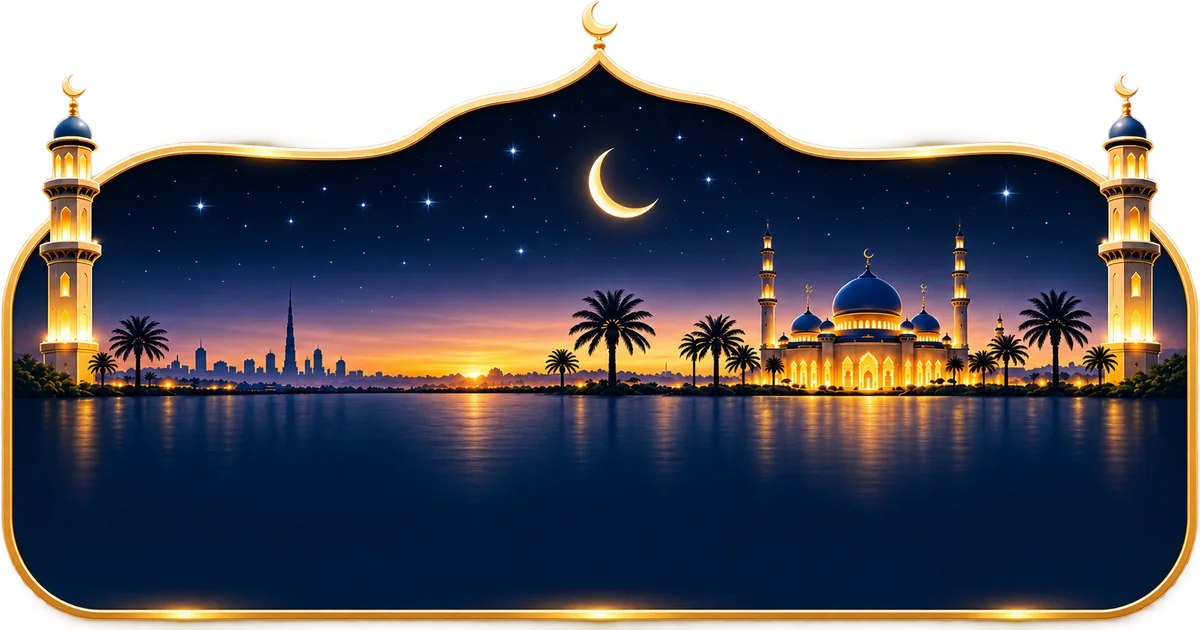
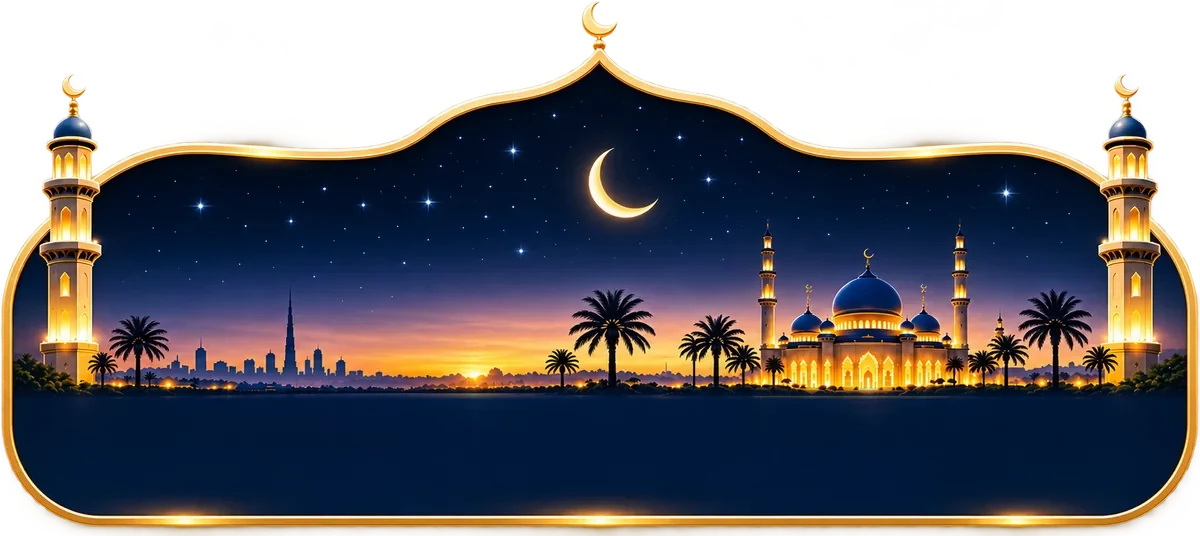
Home: shorter prayer card, firmer light and dark tiles (#99)
- Prayer card about 12% shorter: 94 rows of open water removed from the
  three frame pictures (now 1200x536, seam cross-faded), the prayer times
  start at the waterline with no gap under the header, slightly tighter
  time chips. Arch, minarets, skyline, gold frame and countdown unchanged.
- Prayer-card test updated for the new picture height and waterline.
- Light and dark tiles: 7% more opaque, same border and corners, a finer
  subtle shadow.
- Service worker v160.

diff --git a/sw.js b/sw.js
@@ -1,4 +1,4 @@
-const CACHE_NAME = "zad-muslim-v159"; // v159: home — glass cards in every theme (light: white glass / sky-blue accent, purple: indigo glass / violet, sepia: cream glass / gold, black: faint white glass / emerald), no blur and no wash so the background stays as it is, shorter cards (58 px list, 80 px 4-per-row, 40 / 36 px icons), matching glass nav bar per theme; v158: v158: home, sepia — glass cards: a pale wash over the bokeh, frosted cream glass cards with a bright edge and soft shadow, gold gradient accents (section bars, layout switch, upcoming-prayer pill), matching glass nav bar, solid surfaces when reduced transparency is requested; v157: v157: home — floating pill bottom navigation (rounded bar with a soft shadow, a tinted pill that slides to the tab whose panel is open, muted inactive tabs, theme colours for light / purple / sepia / black, RTL and LTR), nav icons in one 24 px box with optical balance (translate scaled down, bars scaled up); the 18 card icons re-cut from the source sheet and optically balanced (outline size and painted mass), shown at 44 px; new sepia background (golden bokeh, images/background-sepia.*); v156: v156: home — the feature cards show the 3D icons on their own (no tile box; icons/home/*.webp, one set for every theme); the accent follows the theme: sky blue (light), violet (dark), gold-bronze (sepia), emerald (plain-dark) for the section bars, layout switch and upcoming-prayer pill; the full Tajawal family (regular + bold) instead of the bold-only face, a type scale (17 / 14 / 11 px) and one grid rhythm (cards 64 px / 92 px high, 10 px gaps, 20 px between sections); v155: home — the feature cards use 3D picture tiles (icons/home/<theme>/*.webp: sky blue for light, purple for dark, caramel for sepia, emerald for plain-dark) in place of the outline SVGs, all tiles the same size, swapped with the theme; v154: audio and radio — the layout button only on big screens (foldables, tablets, car head units, computers), not on regular phones; v153: audio and radio — a header button switches between the wide and the vertical layout (it turns the screen where the app may, or switches in place when the screen is wide enough, e.g. an unfolded foldable held upright; remembered in playerLayout, set before the first paint); the seek bar paints played / buffered on its track (the taller landscape slider showed a grey block); audio wide layout: the seek bar runs along the bottom of the player, under both columns; v152: audio and radio on wide landscape screens (car head units 800×480 to 1920×720, tablets, phones sideways) — one screen with no scrolling: the player card in two columns with a line between (the title and big controls on the reading side, the art beside them, the reciter under it), the pickers in one row, repeat / download / favourite / shuffle / speed as one segmented bar, the title wrapping instead of scrolling, lists as a centred panel; refined: balanced columns, larger art, a stronger title (the reciter / category secondary), the transport and the lighter secondary bar set apart, alike pickers (an icon tile, label and value, a chevron), radio's live indicator above the station name; the shuffle icon redrawn as 🔀 (two arrows swapping lanes) on the audio pages; v151: home — the prayer times card is a framed picture (gold frame with an arch, minarets and a lake scene: night, day, golden hour; images/prayer-frame-{dark,light,sepia}.webp) in place of the SVG arch and outline (images/prayer-scene*.webp removed); drawn in three bands so it never distorts, the times on the water; v149: home — the saved theme and reading direction are set in <head> before the first paint (the page showed the dark default, right-to-left, until the load event and then switched), the prayer card's arch drawn right after its markup (it showed as a plain rectangle until the scripts at the end of the page had loaded); the same early theme and direction on azkar, radio, audio, audio-download, audio2, audio3, about, howto and privacy (each with its own rule; they showed their default theme until the load event); v148: radio — live Holy Quran Radio from Cairo (radiojar) first in the station list; the old «القاهرة» entry was Mustafa Ismail's stream: now «إذاعة مصطفى إسماعيل» at #5 (the duplicate further down removed); radiojar streams bypass the SW; adhkar — the «1 من 31» badge opens a list of the whole set to jump to any dhikr (done ✓, part-way n/N, repeats ×N; the current one highlighted); the translate button moved from the adhkar header into Settings (first row), the Settings ✕ at the far edge; adhkar auto-fit — a button on the card (and a switch in Settings) sizes the text so the whole dhikr fits the card (short ones up to 40 px, long ones down to 16), refits when the card changes size; sizing by hand turns it off; smallest size 22 → 16 px; v147: adhkar — the top bar sits below the status bar / notch (safe-area inset instead of a fixed 30 px on iOS), the page keeps clear of the bottom buttons whatever their real height (gesture bar / home indicator, mini player): the counter ring no longer runs under «تلقائي», A-/A+ have their own strip at the top of the card (the text no longer scrolls under them), English shows Previous on the left and Next on the right; v146: masbaha — «الأكثر استخدامًا» (سبحان الله، الحمد لله، لا إله إلا الله) at the top of the picker, add your own dhikr from the picker, the bookmark beside «تغيير الذكر» (it covered the text), a meaning with its source for every dhikr, ﷺ drawn with Amiri where Tajawal lacks it; v145: masbaha — ring fills clockwise as a thick arc with a knob (no bead dots); the dhikr in a gold cartouche (drawn to size) with previous / next arrows, swipe and a favourites bookmark (favourites first in the picker); frosted patterned disc in the ring; the lake-and-mosques scene in every theme (images/masbaha-scene-{light,dark,sepia}.webp: dusk, night, golden); tasbih mark and ornament on the title; leaf icon for power saving; the virtue title as a tab on the card; v144: masbaha redesign — the dhikr shown in full above the counter (tap to change), a 33-bead misbaha ring with the imam bead and rounds, the whole counter area counts a tap, labelled actions (undo, target, reset, power saving), a target sheet (3 / 7 / 10 / 33 / 99 / 100 / 1000 or any number), the virtue with its source on its own line, keyboard counting and screen-reader announcements, settings regrouped (statistics most-said first, folded); undo also corrects the weekly stats (DhikrStats.untap); v143: masbaha — power-saving mode: the exit ring appears under the finger only on a held press (grows, turns red), a held or exiting press no longer counts; the virtue card sits higher above the bottom edge; top bar and toast kept 14 px below the notch / status bar; v142: masbaha — light, dark and sepia themes (follows the app theme, selector in settings), dhikr picker as a searchable grouped sheet like the other menus, 8 more adhkar with their virtue and source, settings restyled like the other pages; v141: audio — saved mark is a floppy disk, shown on saved surahs too (was «محفوظ» text there); v140: audio — a saved recitation opens from «المصاحف المحفوظة» at its surah list, saved reciters listed first with a small download-done mark; v139: home — shorter prayer times card (201 → 165 px: lower arch, mosque gap and chip padding trimmed); v138: app icon — navy version: gold arch, lantern and open Quran under a blue sky with a mosque (all icon sizes, maskable on solid navy, full-bleed apple-touch-icon); v136: new light app icon — gold arch, lantern and open Quran on a sky background (icons/icon-192.png, icon_512.png, icon_1024.png, icon-512-maskable.png, new icons/apple-touch-icon.png: full-bleed for iOS); v135: home — continue-reading card redesigned on an arch, lantern and Quran picture per theme (night blue, sky, honey; images/quran-hero-{dark,light,sepia}[-ltr].webp), no arrow button (the whole card opens the mushaf), the home page no longer pinch-zooms on touch screens; v134: home — greeting header removed (prayer card at the top), shorter Quran card, one light sweep shared by both cards, clearer sepia bottom bar, Quran-and-lantern picture on the continue-reading card (images/quran-hero-*.webp); v133: home — prayer times card redesigned as an arched night scene with a mosque (images/prayer-scene*.webp: night for dark themes, day for light, golden hour for sepia); v132: full-mushaf download — card on the player under the selectors, short surahs first, a progress bar per surah, overall progress by size; v131: audio — «تحميل المصحف كاملاً»: a whole recitation saved for offline listening (js/audio-offline.js, cache quran-audio-offline-v1, never trimmed); v130: adhkar — no page pinch-zoom on touch screens again (pinching the dhikr card still resizes its text); v129: audio seek bar back to its thin 5 px look; v128: accessibility — 44 px tap areas on the mushaf, text mushaf, takrar, audio and adhkar controls (no visual change), tappable divs reachable by keyboard and screen readers (js/tap-a11y.js), visible keyboard focus (css/a11y.css), names for unnamed buttons, pinch zoom re-enabled on adhkar; v127: Quran text integrity — the text mushaf is laid out from the app's own verified text and page map (js/quran-text-source.js, data/quran-pages.json): fetched text is shown only when its letters match ayah by ayah, and the page reads with no connection; search/tafsir show remote text as text; tafsir opens offline; data/quran.json checksum-gated in CI; v126: offline — sql.js bundled (js/vendor/, the mushaf no longer needs a CDN), played/bundled audio really cached and served with byte ranges (seeking + iOS offline), precache in parallel batches, tafsir books + bundled audio in «download all», every page registers the SW and shows an offline notice (js/net-status.js), pages cached once regardless of ?query; v125: audio — «المصحف الجديد» (Minshawi) served per surah from mp3quran (GitHub release tracks often timed out) and listed after the murattal; new reciter محمد عبادة; reciter photos as album art (images/reciters/, also on the lock screen and the island, default art as fallback); 217 tracks that silently played another reciter (mp3quran redirects missing files to Minshawi) and 10 cut-off files hidden via `missing`; v124: ثبات — ورد القرآن journeys (daily pages, opens the mushaf at the page, khatma progress, 4-week calendar, make-up for a missed day), sprouts as growth (7 stages, milestone track with the plant of each milestone), «تجاوزت هذه اللحظة» after the ten minutes, new high-quality covers (images/thabat/covers: 1200px banners + 256px thumbnails, new artwork first); surah names shown in the UI font without the Uthmani sukun «ۡ» or the wasla (Tajawal has no glyph for either: they showed as boxes) in ثبات and the mushaf recitation messages; v123: ثبات — long journey names no longer widen the page (the whole page slid sideways on phones), counters in Western digits (Tajawal draws «٠» as a diamond), banner text readable in every theme, new journeys count hours/minutes, hours shown when a milestone is under two days away, library shows 4 then «عرض الكل»; v122: «ثبات» — private journeys of repentance and steadfastness (pages/thabat.html, js/thabat.js, js/thabat-content.js, images/thabat/), card on the home page; v121: azkar — «فضل الذكر» under each dhikr instead of takhreej/grading, taller card + smaller ring, A-/A+ zoom buttons, counts kept for the day with per-dhikr reset and "reset all", prev/next disabled at the ends; v120: azkar grading label shows the strongest ruling (حسن/صحيح), weak fadail ones «يؤخذ بالضعيف في الفضائل»; continuous player survives a host reload (refresh re-shows the framed page, back walks the visited pages instead of sticking on the player); book pages (Nawawi, Qudsi, Hisn, Duaa) menus, player and labels follow the app language (hb_* keys); v119: hadith encyclopedia — 75 corrupted characters repaired in the six books, empty entries hidden, Prophet's words / chain styled, Nawawi & Qudsi open their own pages; v118: بستان الدعاء rebuilt from «الدعاء من الكتاب والسنة» on the book design (assets/duaa-book.json, author's takhreej); honorific ligatures spelled out in hisn/azkar notes; v117: azkar — source, takhreej and grading for every dhikr (azkar.json, salah.json, sleeping-zikr.json) shown under the text; v116: حصن المسلم on the new book design (pages/hisn.html + assets/hisn-matn.json: author's takhreej for all 267, repeat counters, official per-chapter/per-dhikr audio); v115: الأربعون القدسية page (pages/qudsi.html, reviewed text + grading); Nawawi page split into shared css/hadith-book.css + js/hadith-book.js; v114: Nawawi filter chips and share-card audio toggle use SVG icons (no emoji-range characters); v113: Nawawi audio player — compact card, collapsible to a pill; v112: share-card videos can carry a recitation track (Nawawi hadith audio), text timed to it; v111: hadith encyclopedia — corrected An-Nawawi Forty text and takhreej (assets/hadith/nawawi40.json); v110: Nawawi page — corrected takhreej + wording (assets/hadith/nawawi40-matn.json), Prophet's words highlighted, per-hadith recitation player (repeat, auto-next, speed); v109: dedicated An-Nawawi Forty page (pages/nawawi.html: memorization mode, favourites, image/text sharing), prayer cards drop the "next" badge, share card back press no longer closes the modal underneath; v108: home prayer cards (five prayers, upcoming highlighted), sepia secondary text readable; v107: form controls inherit the app font (css/fonts.css), azkar page zoom off again; v106: notifications — 30-day push schedule (Play/TWA has no periodic sync), Play-app guidance when notifications are blocked; v105: audit fixes — Asr (Hanafi/standard) setting, pinch-zoom re-enabled on all pages, quran-text search escaping + API text rendered as text; v104: weekly dhikr stats card (js/dhikr-stats.js: dated history of masbaha/azkar/Quran counters, shared via ShareCard); v103: hadith image cards + silent video export for all share cards (hadith, hisn, duaa, azkar); v102: duaa/dhikr image cards (js/share-card.js) on hisn, duaa and azkar; v101: qibla corrects magnetic→true north (js/wmm.js, WMM2025) and reads the top edge, not the camera, in the 2D compass; v100: all pages load Tajawal + Amiri from bundled fonts via css/fonts.css (no Google Fonts); v99: azkar.html loads Amiri from the bundled fonts/Amiri.ttf (was Google-Fonts-only, fell back to a system font); v98: video maker self-heals a stale cached script (multi-picture switch did nothing with old video-maker.js); v97: video maker multi-picture slideshow (pan/zoom per picture, crossfades on ayah changes); v96: new dark-theme background (images/Background-dark.webp, now used by index.html too); v95: audio island drag-to-dismiss (drop on the bottom ✕ to stop and hide the floating player); v94: video maker "✦ Popular" quick-pick sheet (js/popular-ayat.js); v93: video maker exports a regular fast-start MP4 (MediaRecorder fragmented MP4 showed ~3 s in galleries/WhatsApp); v92: video maker redesign (numbered step cards, searchable surah/reciter sheets, steppers, switches, full-screen preview, Scheherazade canvas font, share caption); v91: ayah video maker (pages/video-maker.html — canvas + MediaRecorder status clips); v90: offline download runs in the page via CacheStorage (fixes wrapped PWA/TWA where the SW message path failed), keeps sw.js as single source for assets + cache name; v89: radio station selector card restored below the player (no pill), page padding trimmed so it still fits without scrolling; v88: radio player fits one screen (art scales with height, stations pill), tap art to pause motion, station title no longer overwritten by late i18n; v87: Sharjah radio via audio-only AAC (itworkscdn) with HLS fallbacks, per-station stream candidates, itworkscdn streams bypass the SW; v86: radio.html UX overhaul (categories, auto-reconnect with host fallback, prev/next, sleep timer, continuous host) + 10 wrong station streams fixed; live radio streams bypass the SW; v85: continuous audio — pages open in a frame over audio.html with a floating island player (js/continuous-player.js), setting in audio.html + index.html; v84: audio.html UX (no silent skip on load/offline, inline error + retry, buffering ring, rich searchable lists, lock-screen seek) + 40 dead audio links fixed/removed in audio-01.json; v83: hadith-viewer RTL swipe (finger → right = next chapter, like duaa/hisn), hadith search ignores invisible RLM marks, viewer shows full result count + "show more", hadith.html scrolls results into view; v82: qibla tilt-compensated heading (back-camera bearing when upright), ignore relative-only orientation, calibration "done" no longer exits the page (BackClose.swap); v81: takrar unit labels strip the basmala + quote the opening, readable selected rows; v80: takrar settings sheet, first-open preferences, ayah-opening unit labels, language button; v79: takrar redesign (player dock, 46 reciters, infinite range loop) + new i18n keys; v78: let GitHub release audio bypass the SW (range requests via SW broke seeking); v77: Minshawi new murattal tracks moved to GitHub release + clean track names; v76: harden offline modal — reply timeouts + graceful recovery when an old SW still controls after update; v75: drop ?v= cache-buster from audio pages, strip dead CSS; v74: unified offline-download.js controller; v73: precache quran-v2 + audio/radio JSONs, hadith books on-demand, ZAD_CACHE_ALL handler
+const CACHE_NAME = "zad-muslim-v160"; // v160: home — prayer card ~12 % shorter (94 rows of open water taken out of images/prayer-frame-*.webp, now 1200 × 536; the times start at the waterline, tighter chips, no gap under the header), light and dark tiles 7 % more opaque with a finer shadow; v159: v159: home — glass cards in every theme (light: white glass / sky-blue accent, purple: indigo glass / violet, sepia: cream glass / gold, black: faint white glass / emerald), no blur and no wash so the background stays as it is, shorter cards (58 px list, 80 px 4-per-row, 40 / 36 px icons), matching glass nav bar per theme; v158: v158: home, sepia — glass cards: a pale wash over the bokeh, frosted cream glass cards with a bright edge and soft shadow, gold gradient accents (section bars, layout switch, upcoming-prayer pill), matching glass nav bar, solid surfaces when reduced transparency is requested; v157: v157: home — floating pill bottom navigation (rounded bar with a soft shadow, a tinted pill that slides to the tab whose panel is open, muted inactive tabs, theme colours for light / purple / sepia / black, RTL and LTR), nav icons in one 24 px box with optical balance (translate scaled down, bars scaled up); the 18 card icons re-cut from the source sheet and optically balanced (outline size and painted mass), shown at 44 px; new sepia background (golden bokeh, images/background-sepia.*); v156: v156: home — the feature cards show the 3D icons on their own (no tile box; icons/home/*.webp, one set for every theme); the accent follows the theme: sky blue (light), violet (dark), gold-bronze (sepia), emerald (plain-dark) for the section bars, layout switch and upcoming-prayer pill; the full Tajawal family (regular + bold) instead of the bold-only face, a type scale (17 / 14 / 11 px) and one grid rhythm (cards 64 px / 92 px high, 10 px gaps, 20 px between sections); v155: home — the feature cards use 3D picture tiles (icons/home/<theme>/*.webp: sky blue for light, purple for dark, caramel for sepia, emerald for plain-dark) in place of the outline SVGs, all tiles the same size, swapped with the theme; v154: audio and radio — the layout button only on big screens (foldables, tablets, car head units, computers), not on regular phones; v153: audio and radio — a header button switches between the wide and the vertical layout (it turns the screen where the app may, or switches in place when the screen is wide enough, e.g. an unfolded foldable held upright; remembered in playerLayout, set before the first paint); the seek bar paints played / buffered on its track (the taller landscape slider showed a grey block); audio wide layout: the seek bar runs along the bottom of the player, under both columns; v152: audio and radio on wide landscape screens (car head units 800×480 to 1920×720, tablets, phones sideways) — one screen with no scrolling: the player card in two columns with a line between (the title and big controls on the reading side, the art beside them, the reciter under it), the pickers in one row, repeat / download / favourite / shuffle / speed as one segmented bar, the title wrapping instead of scrolling, lists as a centred panel; refined: balanced columns, larger art, a stronger title (the reciter / category secondary), the transport and the lighter secondary bar set apart, alike pickers (an icon tile, label and value, a chevron), radio's live indicator above the station name; the shuffle icon redrawn as 🔀 (two arrows swapping lanes) on the audio pages; v151: home — the prayer times card is a framed picture (gold frame with an arch, minarets and a lake scene: night, day, golden hour; images/prayer-frame-{dark,light,sepia}.webp) in place of the SVG arch and outline (images/prayer-scene*.webp removed); drawn in three bands so it never distorts, the times on the water; v149: home — the saved theme and reading direction are set in <head> before the first paint (the page showed the dark default, right-to-left, until the load event and then switched), the prayer card's arch drawn right after its markup (it showed as a plain rectangle until the scripts at the end of the page had loaded); the same early theme and direction on azkar, radio, audio, audio-download, audio2, audio3, about, howto and privacy (each with its own rule; they showed their default theme until the load event); v148: radio — live Holy Quran Radio from Cairo (radiojar) first in the station list; the old «القاهرة» entry was Mustafa Ismail's stream: now «إذاعة مصطفى إسماعيل» at #5 (the duplicate further down removed); radiojar streams bypass the SW; adhkar — the «1 من 31» badge opens a list of the whole set to jump to any dhikr (done ✓, part-way n/N, repeats ×N; the current one highlighted); the translate button moved from the adhkar header into Settings (first row), the Settings ✕ at the far edge; adhkar auto-fit — a button on the card (and a switch in Settings) sizes the text so the whole dhikr fits the card (short ones up to 40 px, long ones down to 16), refits when the card changes size; sizing by hand turns it off; smallest size 22 → 16 px; v147: adhkar — the top bar sits below the status bar / notch (safe-area inset instead of a fixed 30 px on iOS), the page keeps clear of the bottom buttons whatever their real height (gesture bar / home indicator, mini player): the counter ring no longer runs under «تلقائي», A-/A+ have their own strip at the top of the card (the text no longer scrolls under them), English shows Previous on the left and Next on the right; v146: masbaha — «الأكثر استخدامًا» (سبحان الله، الحمد لله، لا إله إلا الله) at the top of the picker, add your own dhikr from the picker, the bookmark beside «تغيير الذكر» (it covered the text), a meaning with its source for every dhikr, ﷺ drawn with Amiri where Tajawal lacks it; v145: masbaha — ring fills clockwise as a thick arc with a knob (no bead dots); the dhikr in a gold cartouche (drawn to size) with previous / next arrows, swipe and a favourites bookmark (favourites first in the picker); frosted patterned disc in the ring; the lake-and-mosques scene in every theme (images/masbaha-scene-{light,dark,sepia}.webp: dusk, night, golden); tasbih mark and ornament on the title; leaf icon for power saving; the virtue title as a tab on the card; v144: masbaha redesign — the dhikr shown in full above the counter (tap to change), a 33-bead misbaha ring with the imam bead and rounds, the whole counter area counts a tap, labelled actions (undo, target, reset, power saving), a target sheet (3 / 7 / 10 / 33 / 99 / 100 / 1000 or any number), the virtue with its source on its own line, keyboard counting and screen-reader announcements, settings regrouped (statistics most-said first, folded); undo also corrects the weekly stats (DhikrStats.untap); v143: masbaha — power-saving mode: the exit ring appears under the finger only on a held press (grows, turns red), a held or exiting press no longer counts; the virtue card sits higher above the bottom edge; top bar and toast kept 14 px below the notch / status bar; v142: masbaha — light, dark and sepia themes (follows the app theme, selector in settings), dhikr picker as a searchable grouped sheet like the other menus, 8 more adhkar with their virtue and source, settings restyled like the other pages; v141: audio — saved mark is a floppy disk, shown on saved surahs too (was «محفوظ» text there); v140: audio — a saved recitation opens from «المصاحف المحفوظة» at its surah list, saved reciters listed first with a small download-done mark; v139: home — shorter prayer times card (201 → 165 px: lower arch, mosque gap and chip padding trimmed); v138: app icon — navy version: gold arch, lantern and open Quran under a blue sky with a mosque (all icon sizes, maskable on solid navy, full-bleed apple-touch-icon); v136: new light app icon — gold arch, lantern and open Quran on a sky background (icons/icon-192.png, icon_512.png, icon_1024.png, icon-512-maskable.png, new icons/apple-touch-icon.png: full-bleed for iOS); v135: home — continue-reading card redesigned on an arch, lantern and Quran picture per theme (night blue, sky, honey; images/quran-hero-{dark,light,sepia}[-ltr].webp), no arrow button (the whole card opens the mushaf), the home page no longer pinch-zooms on touch screens; v134: home — greeting header removed (prayer card at the top), shorter Quran card, one light sweep shared by both cards, clearer sepia bottom bar, Quran-and-lantern picture on the continue-reading card (images/quran-hero-*.webp); v133: home — prayer times card redesigned as an arched night scene with a mosque (images/prayer-scene*.webp: night for dark themes, day for light, golden hour for sepia); v132: full-mushaf download — card on the player under the selectors, short surahs first, a progress bar per surah, overall progress by size; v131: audio — «تحميل المصحف كاملاً»: a whole recitation saved for offline listening (js/audio-offline.js, cache quran-audio-offline-v1, never trimmed); v130: adhkar — no page pinch-zoom on touch screens again (pinching the dhikr card still resizes its text); v129: audio seek bar back to its thin 5 px look; v128: accessibility — 44 px tap areas on the mushaf, text mushaf, takrar, audio and adhkar controls (no visual change), tappable divs reachable by keyboard and screen readers (js/tap-a11y.js), visible keyboard focus (css/a11y.css), names for unnamed buttons, pinch zoom re-enabled on adhkar; v127: Quran text integrity — the text mushaf is laid out from the app's own verified text and page map (js/quran-text-source.js, data/quran-pages.json): fetched text is shown only when its letters match ayah by ayah, and the page reads with no connection; search/tafsir show remote text as text; tafsir opens offline; data/quran.json checksum-gated in CI; v126: offline — sql.js bundled (js/vendor/, the mushaf no longer needs a CDN), played/bundled audio really cached and served with byte ranges (seeking + iOS offline), precache in parallel batches, tafsir books + bundled audio in «download all», every page registers the SW and shows an offline notice (js/net-status.js), pages cached once regardless of ?query; v125: audio — «المصحف الجديد» (Minshawi) served per surah from mp3quran (GitHub release tracks often timed out) and listed after the murattal; new reciter محمد عبادة; reciter photos as album art (images/reciters/, also on the lock screen and the island, default art as fallback); 217 tracks that silently played another reciter (mp3quran redirects missing files to Minshawi) and 10 cut-off files hidden via `missing`; v124: ثبات — ورد القرآن journeys (daily pages, opens the mushaf at the page, khatma progress, 4-week calendar, make-up for a missed day), sprouts as growth (7 stages, milestone track with the plant of each milestone), «تجاوزت هذه اللحظة» after the ten minutes, new high-quality covers (images/thabat/covers: 1200px banners + 256px thumbnails, new artwork first); surah names shown in the UI font without the Uthmani sukun «ۡ» or the wasla (Tajawal has no glyph for either: they showed as boxes) in ثبات and the mushaf recitation messages; v123: ثبات — long journey names no longer widen the page (the whole page slid sideways on phones), counters in Western digits (Tajawal draws «٠» as a diamond), banner text readable in every theme, new journeys count hours/minutes, hours shown when a milestone is under two days away, library shows 4 then «عرض الكل»; v122: «ثبات» — private journeys of repentance and steadfastness (pages/thabat.html, js/thabat.js, js/thabat-content.js, images/thabat/), card on the home page; v121: azkar — «فضل الذكر» under each dhikr instead of takhreej/grading, taller card + smaller ring, A-/A+ zoom buttons, counts kept for the day with per-dhikr reset and "reset all", prev/next disabled at the ends; v120: azkar grading label shows the strongest ruling (حسن/صحيح), weak fadail ones «يؤخذ بالضعيف في الفضائل»; continuous player survives a host reload (refresh re-shows the framed page, back walks the visited pages instead of sticking on the player); book pages (Nawawi, Qudsi, Hisn, Duaa) menus, player and labels follow the app language (hb_* keys); v119: hadith encyclopedia — 75 corrupted characters repaired in the six books, empty entries hidden, Prophet's words / chain styled, Nawawi & Qudsi open their own pages; v118: بستان الدعاء rebuilt from «الدعاء من الكتاب والسنة» on the book design (assets/duaa-book.json, author's takhreej); honorific ligatures spelled out in hisn/azkar notes; v117: azkar — source, takhreej and grading for every dhikr (azkar.json, salah.json, sleeping-zikr.json) shown under the text; v116: حصن المسلم on the new book design (pages/hisn.html + assets/hisn-matn.json: author's takhreej for all 267, repeat counters, official per-chapter/per-dhikr audio); v115: الأربعون القدسية page (pages/qudsi.html, reviewed text + grading); Nawawi page split into shared css/hadith-book.css + js/hadith-book.js; v114: Nawawi filter chips and share-card audio toggle use SVG icons (no emoji-range characters); v113: Nawawi audio player — compact card, collapsible to a pill; v112: share-card videos can carry a recitation track (Nawawi hadith audio), text timed to it; v111: hadith encyclopedia — corrected An-Nawawi Forty text and takhreej (assets/hadith/nawawi40.json); v110: Nawawi page — corrected takhreej + wording (assets/hadith/nawawi40-matn.json), Prophet's words highlighted, per-hadith recitation player (repeat, auto-next, speed); v109: dedicated An-Nawawi Forty page (pages/nawawi.html: memorization mode, favourites, image/text sharing), prayer cards drop the "next" badge, share card back press no longer closes the modal underneath; v108: home prayer cards (five prayers, upcoming highlighted), sepia secondary text readable; v107: form controls inherit the app font (css/fonts.css), azkar page zoom off again; v106: notifications — 30-day push schedule (Play/TWA has no periodic sync), Play-app guidance when notifications are blocked; v105: audit fixes — Asr (Hanafi/standard) setting, pinch-zoom re-enabled on all pages, quran-text search escaping + API text rendered as text; v104: weekly dhikr stats card (js/dhikr-stats.js: dated history of masbaha/azkar/Quran counters, shared via ShareCard); v103: hadith image cards + silent video export for all share cards (hadith, hisn, duaa, azkar); v102: duaa/dhikr image cards (js/share-card.js) on hisn, duaa and azkar; v101: qibla corrects magnetic→true north (js/wmm.js, WMM2025) and reads the top edge, not the camera, in the 2D compass; v100: all pages load Tajawal + Amiri from bundled fonts via css/fonts.css (no Google Fonts); v99: azkar.html loads Amiri from the bundled fonts/Amiri.ttf (was Google-Fonts-only, fell back to a system font); v98: video maker self-heals a stale cached script (multi-picture switch did nothing with old video-maker.js); v97: video maker multi-picture slideshow (pan/zoom per picture, crossfades on ayah changes); v96: new dark-theme background (images/Background-dark.webp, now used by index.html too); v95: audio island drag-to-dismiss (drop on the bottom ✕ to stop and hide the floating player); v94: video maker "✦ Popular" quick-pick sheet (js/popular-ayat.js); v93: video maker exports a regular fast-start MP4 (MediaRecorder fragmented MP4 showed ~3 s in galleries/WhatsApp); v92: video maker redesign (numbered step cards, searchable surah/reciter sheets, steppers, switches, full-screen preview, Scheherazade canvas font, share caption); v91: ayah video maker (pages/video-maker.html — canvas + MediaRecorder status clips); v90: offline download runs in the page via CacheStorage (fixes wrapped PWA/TWA where the SW message path failed), keeps sw.js as single source for assets + cache name; v89: radio station selector card restored below the player (no pill), page padding trimmed so it still fits without scrolling; v88: radio player fits one screen (art scales with height, stations pill), tap art to pause motion, station title no longer overwritten by late i18n; v87: Sharjah radio via audio-only AAC (itworkscdn) with HLS fallbacks, per-station stream candidates, itworkscdn streams bypass the SW; v86: radio.html UX overhaul (categories, auto-reconnect with host fallback, prev/next, sleep timer, continuous host) + 10 wrong station streams fixed; live radio streams bypass the SW; v85: continuous audio — pages open in a frame over audio.html with a floating island player (js/continuous-player.js), setting in audio.html + index.html; v84: audio.html UX (no silent skip on load/offline, inline error + retry, buffering ring, rich searchable lists, lock-screen seek) + 40 dead audio links fixed/removed in audio-01.json; v83: hadith-viewer RTL swipe (finger → right = next chapter, like duaa/hisn), hadith search ignores invisible RLM marks, viewer shows full result count + "show more", hadith.html scrolls results into view; v82: qibla tilt-compensated heading (back-camera bearing when upright), ignore relative-only orientation, calibration "done" no longer exits the page (BackClose.swap); v81: takrar unit labels strip the basmala + quote the opening, readable selected rows; v80: takrar settings sheet, first-open preferences, ayah-opening unit labels, language button; v79: takrar redesign (player dock, 46 reciters, infinite range loop) + new i18n keys; v78: let GitHub release audio bypass the SW (range requests via SW broke seeking); v77: Minshawi new murattal tracks moved to GitHub release + clean track names; v76: harden offline modal — reply timeouts + graceful recovery when an old SW still controls after update; v75: drop ?v= cache-buster from audio pages, strip dead CSS; v74: unified offline-download.js controller; v73: precache quran-v2 + audio/radio JSONs, hadith books on-demand, ZAD_CACHE_ALL handler
 const AUDIO_CACHE = "audio-cache-v1";
 const PUSH_CTX_CACHE = "push-ctx-v1"; // schedule context written by js/notifications.js
 

diff --git a/index.html b/index.html
@@ -352,11 +352,13 @@ input, textarea, select {
 /* ======================== PRAYER CARD: framed scene ========================
    The card is a picture: a gold frame with an arch, two minarets and a lake
    scene (night for the dark themes, day for light, golden hour for sepia;
-   images/prayer-frame-*.webp, 1200 × 630). It is drawn as a border image in
+   images/prayer-frame-*.webp, 1200 × 536). It is drawn as a border image in
    three bands so it never distorts:
-     top    — image rows 0–503: arch, minarets, sky, skyline (scales with the width)
-     middle — rows 503–532: plain water, stretched only if the content needs it
-     bottom — rows 532–630: the rounded bottom of the frame
+     top    — image rows 0–409: arch, minarets, sky, skyline (scales with the width)
+     middle — rows 409–438: plain water, stretched only if the content needs it
+     bottom — rows 438–536: the rounded bottom of the frame
+   (94 rows of open water were taken out of the pictures to make the card
+   about 15 % shorter; the arch, skyline and frame are unchanged.)
    Everything is measured in --u, 1 % of the card's width (cqw of .pw-wrap):
    the header sits between the minarets, below the frame's top edge, and the
    prayer times sit on the water. */
@@ -369,14 +371,15 @@ input, textarea, select {
   --u: calc((min(100vw, 480px) - 2 * var(--spacing-md)) / 100);   /* without container units */
   position: relative; margin: 0;
   display: flex; flex-direction: column;
-  min-height: calc(var(--u) * 52.5);                               /* the picture's own height */
-  padding: calc(var(--u) * 14.5) calc(var(--u) * 3.5) calc(var(--u) * 2.8);
+  min-height: calc(var(--u) * 44.667);                             /* the picture's own height */
+  padding: calc(var(--u) * 14.5) calc(var(--u) * 3.5) calc(var(--u) * 1.9);
+  gap: 0;                                                          /* the header's own height sets where the times start */
   border-radius: 0; box-shadow: none; background: none;
   border: 1px solid transparent;
   --pw-frame: url('images/prayer-frame-dark.webp');
   border-image-source: var(--pw-frame);
-  border-image-slice: 503 0 98 fill;
-  border-image-width: calc(var(--u) * 41.917) 0 calc(var(--u) * 8.167);
+  border-image-slice: 409 0 98 fill;
+  border-image-width: calc(var(--u) * 34.083) 0 calc(var(--u) * 8.167);
   border-image-repeat: stretch;
   color: #fff;
   -webkit-backdrop-filter: none; backdrop-filter: none;
@@ -387,7 +390,7 @@ input, textarea, select {
 .prayer-widget:active { transform: scale(0.985); }
 /* the countdown, the date and the place: between the minarets, above the skyline */
 .prayer-widget .prayer-header-info {
-  padding: 0 calc(var(--u) * 6.5); min-height: calc(var(--u) * 15); gap: calc(var(--u) * 2);
+  padding: 0 calc(var(--u) * 6.5); min-height: calc(var(--u) * 16.6); gap: calc(var(--u) * 2);   /* times start at the waterline */
 }
 .prayer-widget .prayer-timer { font-size: clamp(1.1rem, calc(var(--u) * 6.6), 1.45rem); }
 .prayer-widget .prayer-meta { min-width: 0; }
@@ -402,8 +405,8 @@ input, textarea, select {
 /* the prayer times: on the water, at the bottom of the frame */
 .prayer-widget .prayer-cards { position: relative; z-index: 1; margin-top: auto; }
 /* compact chips: less padding, smaller icon */
-.prayer-widget .prayer-card { padding: 4px 1px; gap: 1px; }
-.prayer-widget .prayer-card .pc-icon { width: 13px; height: 13px; }
+.prayer-widget .prayer-card { padding: 3px 1px 2px; gap: 0; }
+.prayer-widget .prayer-card .pc-icon { width: 12px; height: 12px; }
 .prayer-widget .prayer-card {
   background: rgba(10, 22, 58, .62); border-color: rgba(255,255,255,.16); color: rgba(255,255,255,.8);
   -webkit-backdrop-filter: blur(6px); backdrop-filter: blur(6px);
@@ -775,22 +778,22 @@ body.home-compact .new-badge { top: -6px; font-size: 0.55rem; padding: 3px 6px; 
    shadow (no blur, so the background stays as it is), a gradient accent,
    and a matching glass nav bar. Colours come from the --card-* / --accent-grad tokens below. */
 :root {
-  --card-glass: rgba(255, 255, 255, 0.52);
-  --card-glass-press: rgba(255, 255, 255, 0.62);
+  --card-glass: rgba(255, 255, 255, 0.59);
+  --card-glass-press: rgba(255, 255, 255, 0.70);
   --card-glass-solid: rgba(255, 255, 255, 0.94);
   --card-edge: rgba(255, 255, 255, 0.72);
-  --card-shadow: inset 0 1px 0 rgba(255, 255, 255, 0.8), 0 10px 24px -12px rgba(20, 70, 140, 0.38);
+  --card-shadow: inset 0 1px 0 rgba(255, 255, 255, 0.8), 0 1px 2px rgba(20, 70, 140, 0.08), 0 6px 16px -8px rgba(20, 70, 140, 0.24);
   --card-ink: #10284D;
   --card-ink-glow: 0 1px 0 rgba(255, 255, 255, 0.6);
   --card-icon-shadow: rgba(20, 60, 120, 0.25);
   --accent-grad: linear-gradient(160deg, #5AB0F5, #1565C0);
 }
 [data-theme="dark"] {            /* purple */
-  --card-glass: rgba(46, 36, 92, 0.52);
-  --card-glass-press: rgba(62, 50, 118, 0.55);
+  --card-glass: rgba(46, 36, 92, 0.59);
+  --card-glass-press: rgba(62, 50, 118, 0.68);
   --card-glass-solid: rgba(38, 30, 78, 0.96);
   --card-edge: rgba(196, 181, 253, 0.22);
-  --card-shadow: inset 0 1px 0 rgba(255, 255, 255, 0.12), 0 12px 26px -12px rgba(5, 0, 25, 0.75);
+  --card-shadow: inset 0 1px 0 rgba(255, 255, 255, 0.12), 0 1px 2px rgba(0, 0, 0, 0.22), 0 6px 16px -8px rgba(5, 0, 25, 0.55);
   --card-ink: #F3F0FF;
   --card-ink-glow: 0 1px 6px rgba(0, 0, 0, 0.35);
   --card-icon-shadow: rgba(0, 0, 0, 0.45);

diff --git a/tests/prayer-card.spec.js b/tests/prayer-card.spec.js
@@ -1,5 +1,5 @@
 // Home: the prayer times card is a framed picture (images/prayer-frame-*.webp,
-// 1200 × 630) drawn as a border image in three bands. Its content must sit in
+// 1200 × 536) drawn as a border image in three bands. Its content must sit in
 // the picture's zones at every width: the header between the minarets, below
 // the frame's top edge and above the horizon; the prayer times on the water,
 // inside the frame. Positions are in % of the card's width (the picture scales
@@ -44,14 +44,14 @@ test.describe('prayer card on its framed picture', () => {
         await page.setViewportSize({ width, height: 900 });
         const s = await open(page, theme);
         expect(s.frame).toContain(`prayer-frame-${FRAME[theme]}.webp`);
-        expect(s.height).toBeGreaterThanOrEqual(52.4);            // never shorter than the picture (no squashing)
+        expect(s.height).toBeGreaterThanOrEqual(44.6);            // never shorter than the picture (no squashing)
         for (const k of ['timer', 'meta', 'label']) {              // between the minarets, under the top edge, over the horizon
           expect(s[k].x0, k).toBeGreaterThanOrEqual(9.3);
           expect(s[k].x1, k).toBeLessThanOrEqual(90.7);
           expect(s[k].y0, k).toBeGreaterThanOrEqual(13.3);
           expect(s[k].y1, k).toBeLessThanOrEqual(30.5);
         }
-        expect(s.chips.y0).toBeGreaterThanOrEqual(32);             // on the water
+        expect(s.chips.y0).toBeGreaterThanOrEqual(31);             // at the waterline
         expect(s.chips.y1).toBeLessThanOrEqual(s.height - 1.3);    // above the bottom of the frame
         expect(s.chips.x0).toBeGreaterThanOrEqual(1.5);            // inside the gold sides
         expect(s.chips.x1).toBeLessThanOrEqual(98.5);
